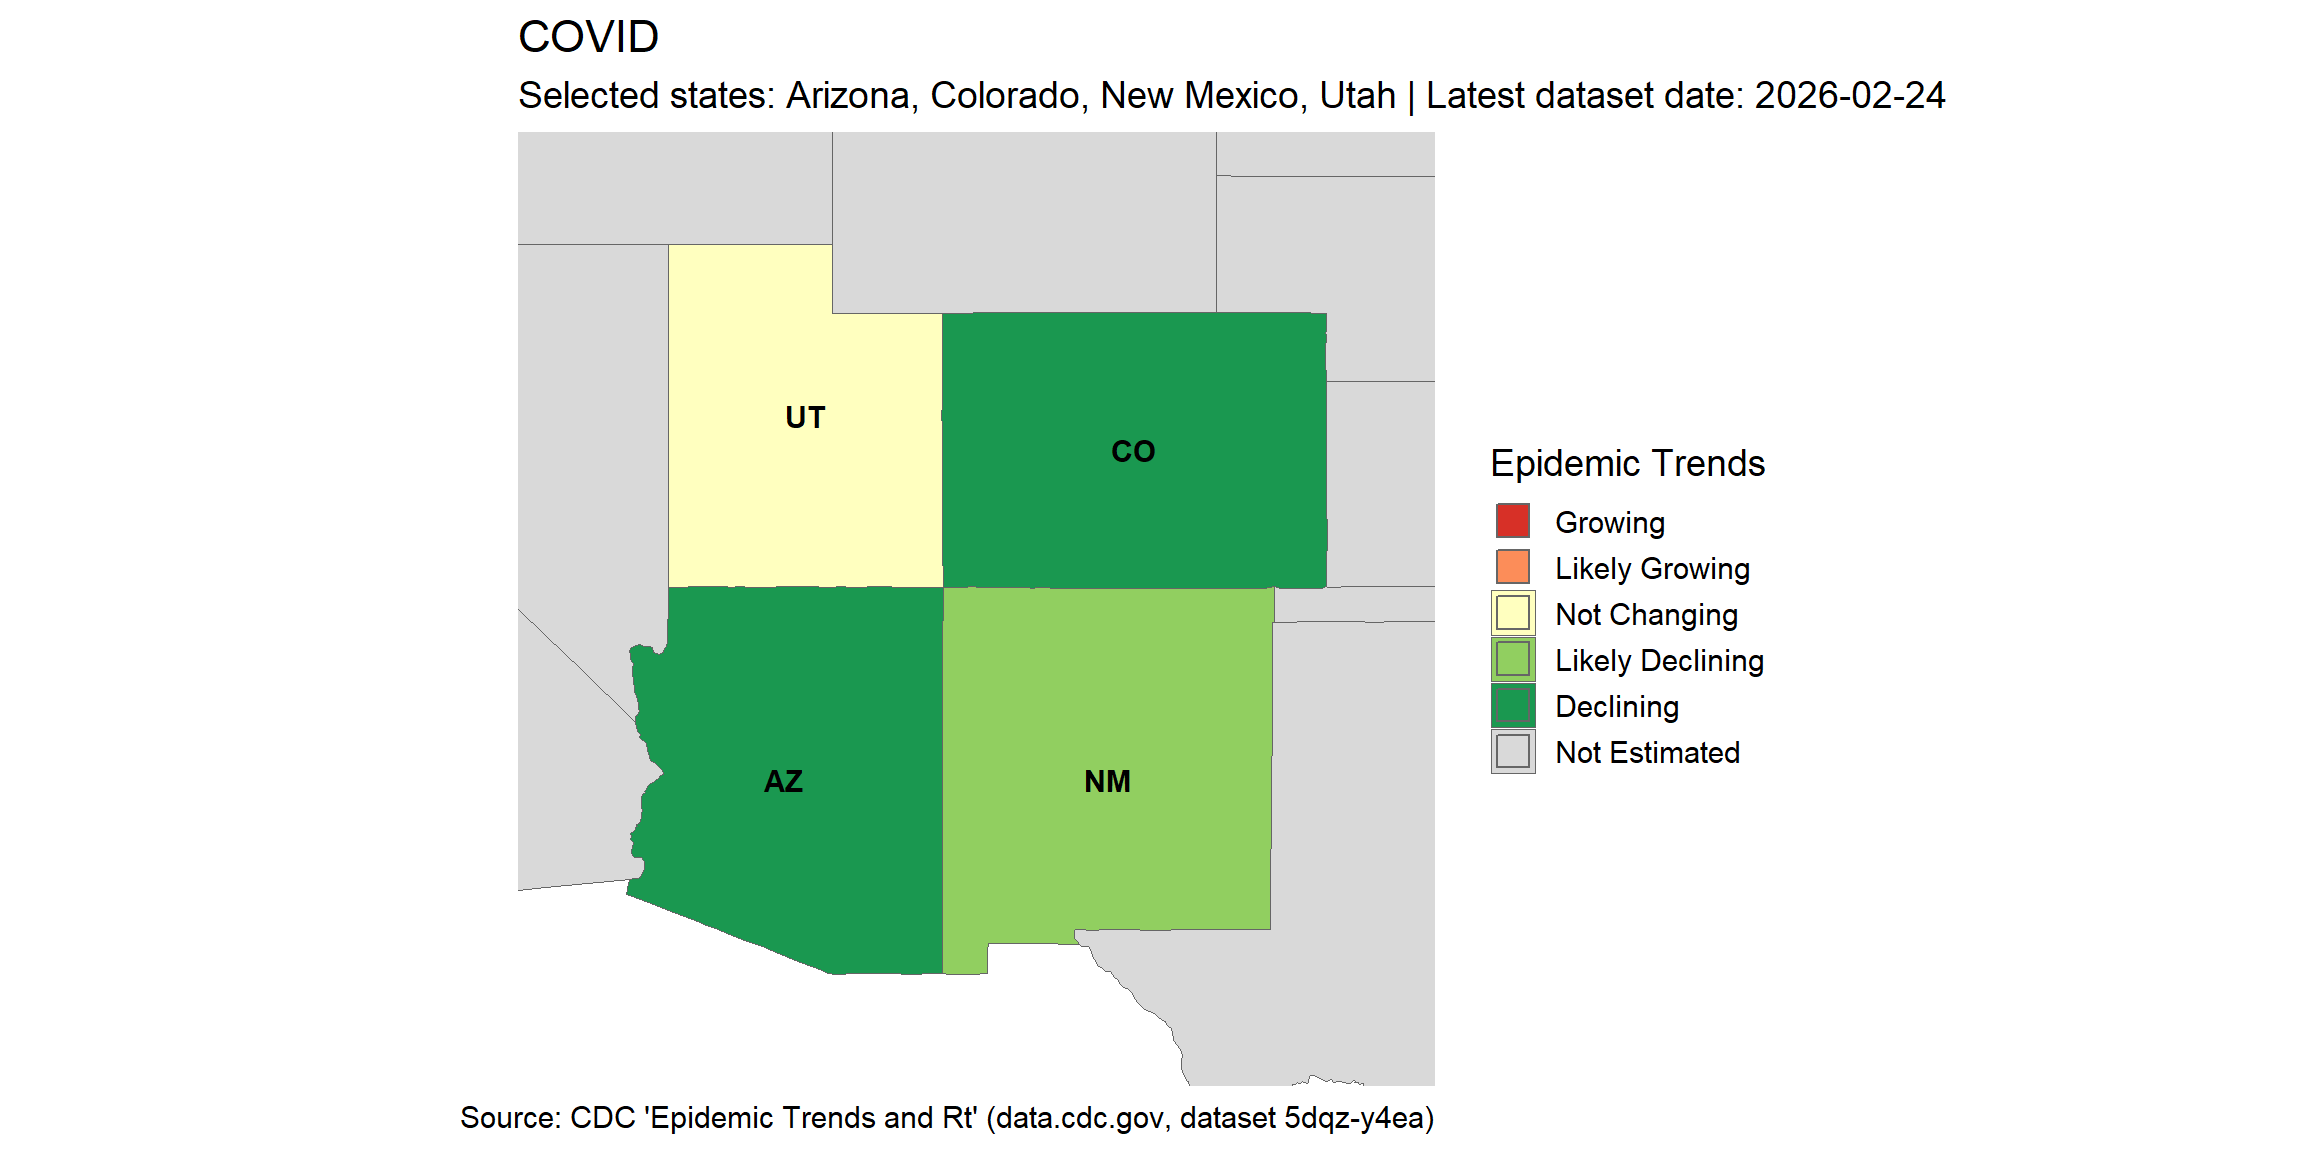
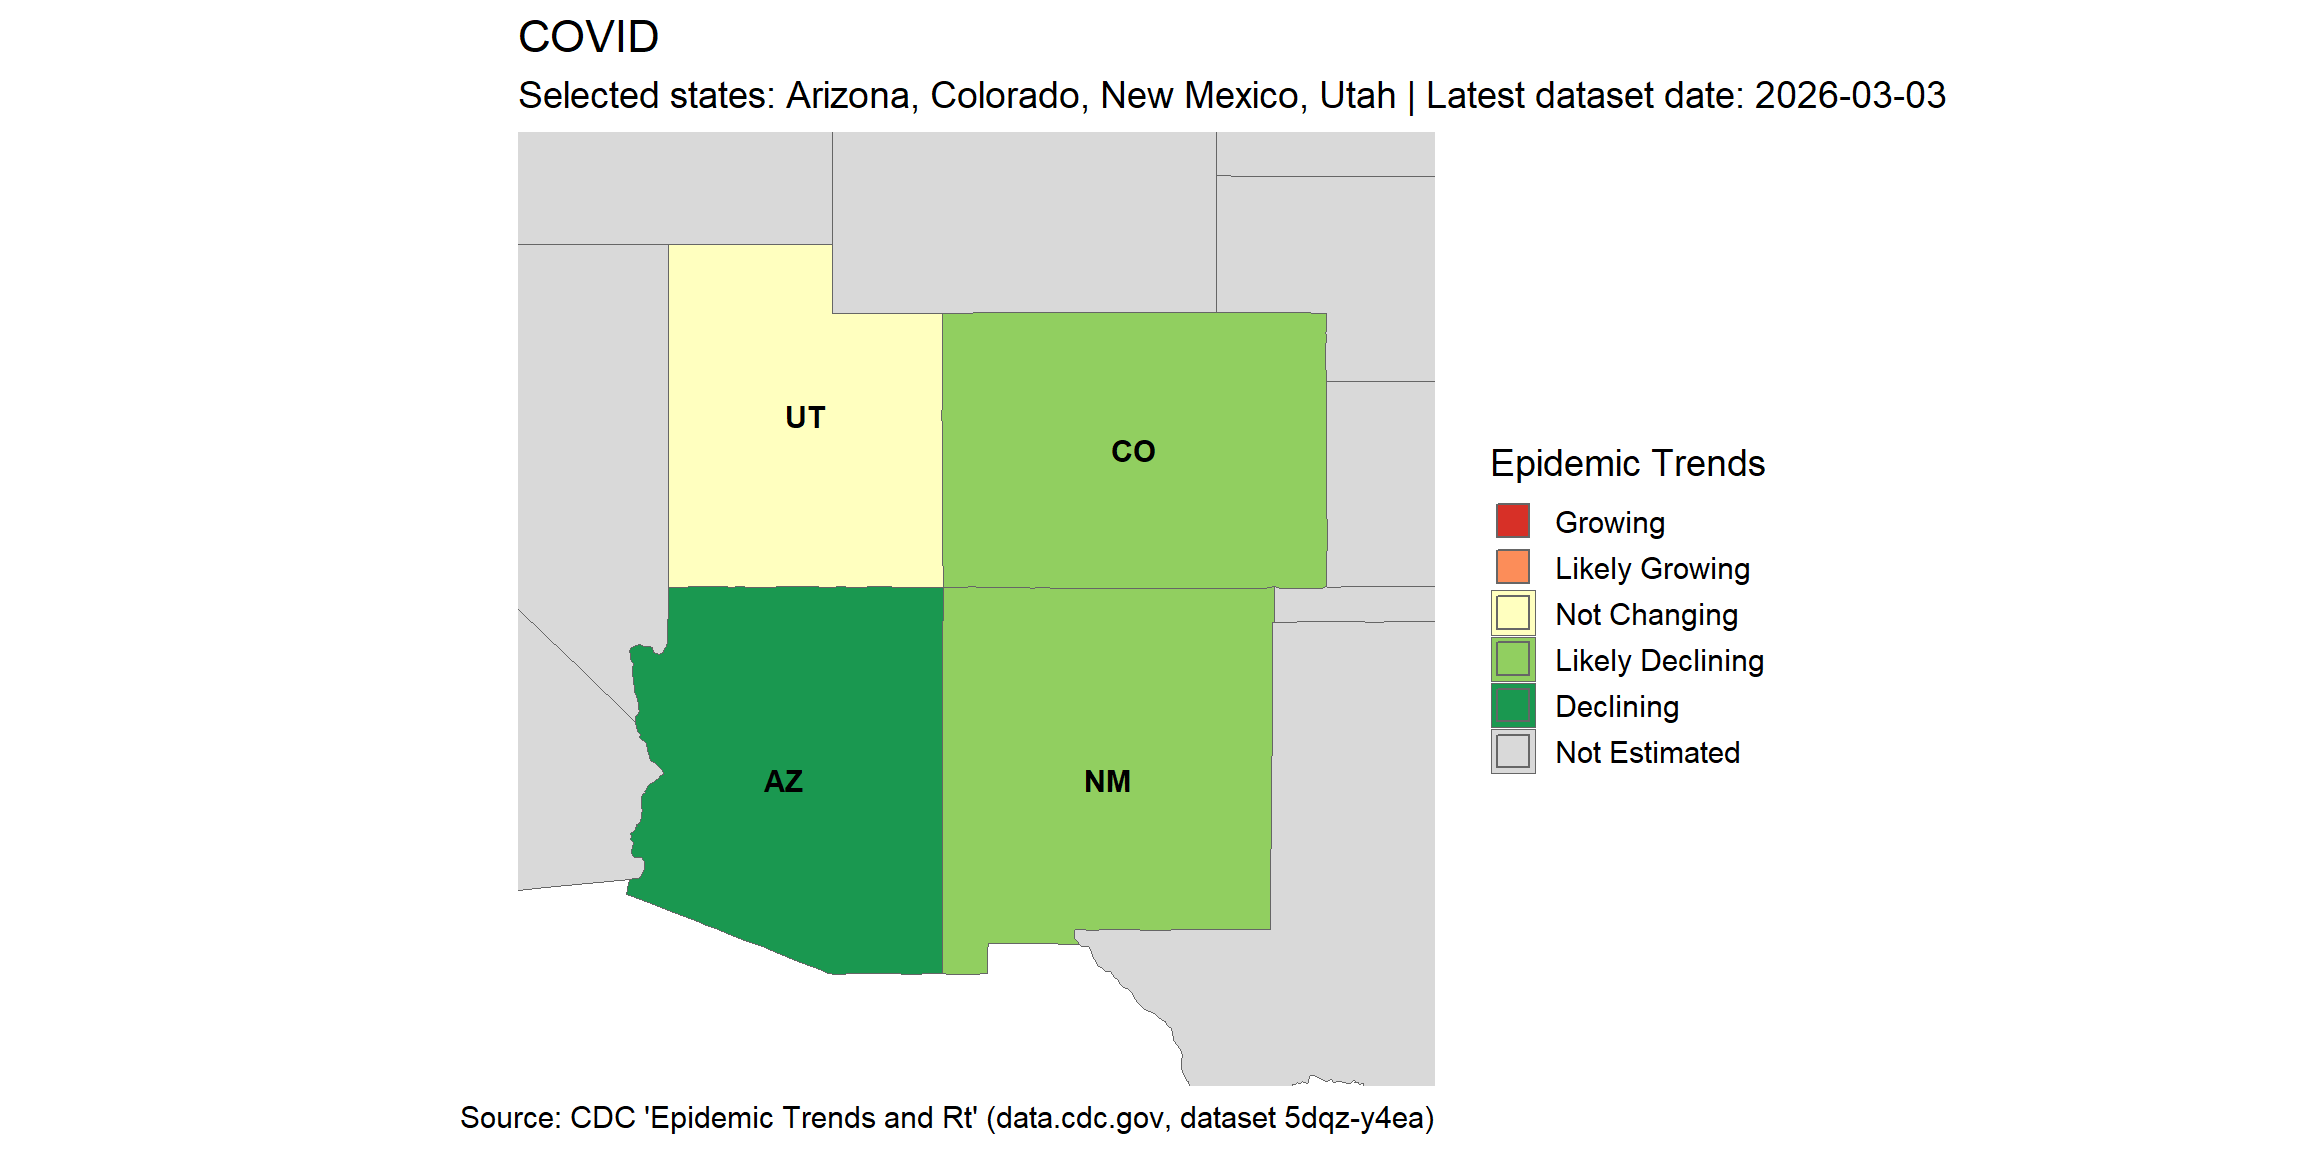
3/6/26 update

Changed region(s): [[0.4062, 0.25, 0.5938, 0.5312], [0.8125, 0.0625, 0.8438, 0.0938]]

diff --git a/docs/trajectory-maps.html b/docs/trajectory-maps.html
@@ -483,11 +483,11 @@ RSV
 <div class="cardish-summary">
 <p>
 The current COVID epidemic trend is <strong>declining</strong> for
-Arizona and Colorado, <strong>likely declinging</strong> for New Mexico,
+Arizona, <strong>likely declinging</strong> for Colorado and New Mexico,
 and <strong>not changing</strong> for Utah. The weekly percentage of ED
 visits diagnosed with COVID was <strong>very low</strong> for Arizona,
 Colorado, New Mexico, and Utah. (Trend assessments based on data
-reported through 2/24/2026)
+reported through 3/3/2026)
 </p>
 </div>
 <img src="trajectory-maps_files/figure-html/cdc-rt-trend-maps-with-paired-summaries-1.png" width="100%" style="display: block; margin: auto;" />
@@ -495,12 +495,12 @@ reported through 2/24/2026)
 <div id="influenza" class="tab-pane fade" role="tabpanel">
 <div class="cardish-summary">
 <p>
-The current flu epidemic trend is <strong>declining</strong> for Arizona
-and Utah and <strong>not changing</strong> for Colorado and New Mexico.
-The weekly percentage of ED visits diagnosed with influenza was
-<strong>moderate</strong> for Arizona, Colorado, and Utah and
-<strong>low</strong> for New Mexico. (Trend assessments based on data
-reported through 2/24/2026)
+The current flu epidemic trend is <strong>declining</strong> for Utah,
+<strong>likely declining</strong> for Arizona, and <strong>not
+changing</strong> for Colorado and New Mexico. The weekly percentage of
+ED visits diagnosed with influenza was <strong>moderate</strong> for
+Arizona and Colorado and <strong>low</strong> for New Mexico and Utah.
+(Trend assessments based on data reported through 3/3/2026)
 </p>
 </div>
 <img src="trajectory-maps_files/figure-html/cdc-rt-trend-maps-with-paired-summaries-2.png" width="100%" style="display: block; margin: auto;" />
@@ -508,12 +508,12 @@ reported through 2/24/2026)
 <div id="rsv" class="tab-pane fade" role="tabpanel">
 <div class="cardish-summary">
 <p>
-The current RSV epidemic trend is <strong>growing</strong> for Colorado,
-<strong>likely growing</strong> for New Mexico, and <strong>not
-changing</strong> for Arizona and Utah. The weekly percentage of ED
-visits diagnosed with RSV was <strong>moderate</strong> for Colorado,
-New Mexico, and Utah and <strong>low</strong> for Arizona. (Trend
-assessments based on data reported through 2/24/2026)
+The current RSV epidemic trend is <strong>declining</strong> for Utah,
+<strong>likely declining</strong> for Arizona, and <strong>not
+changing</strong> for Colorado and New Mexico. The weekly percentage of
+ED visits diagnosed with RSV was <strong>moderate</strong> for Colorado
+and Arizona and <strong>low</strong> for New Mexico and Utah. (Trend
+assessments based on data reported through 3/3/2026)
 </p>
 </div>
 <img src="trajectory-maps_files/figure-html/cdc-rt-trend-maps-with-paired-summaries-3.png" width="100%" style="display: block; margin: auto;" />

diff --git a/docs/index.html b/docs/index.html
@@ -424,7 +424,7 @@ $(document).ready(function () {
 Respiratory Virus Situation Report
 </h1>
 <p class="home-subtitle">
-Arizona • Colorado • New Mexico • Utah — updated <strong>March 02,
+Arizona • Colorado • New Mexico • Utah — updated <strong>March 06,
 2026</strong>
 </p>
 <div class="home-grid">
